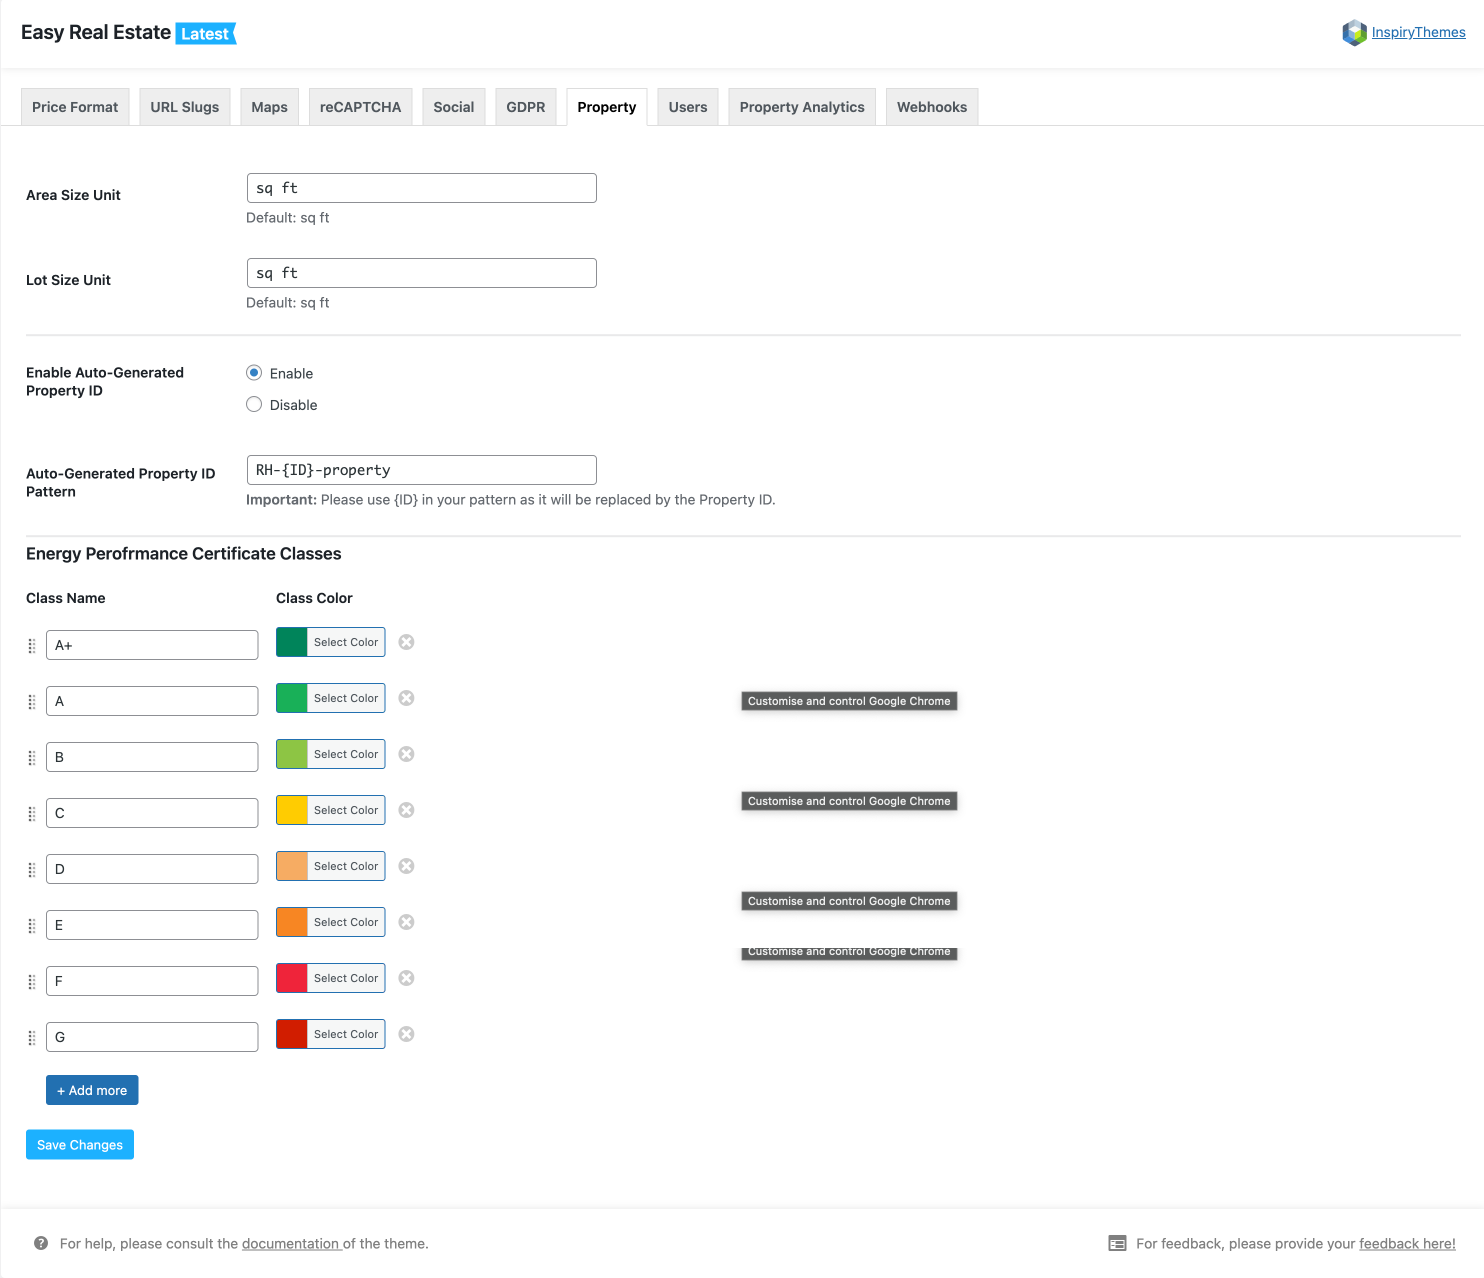
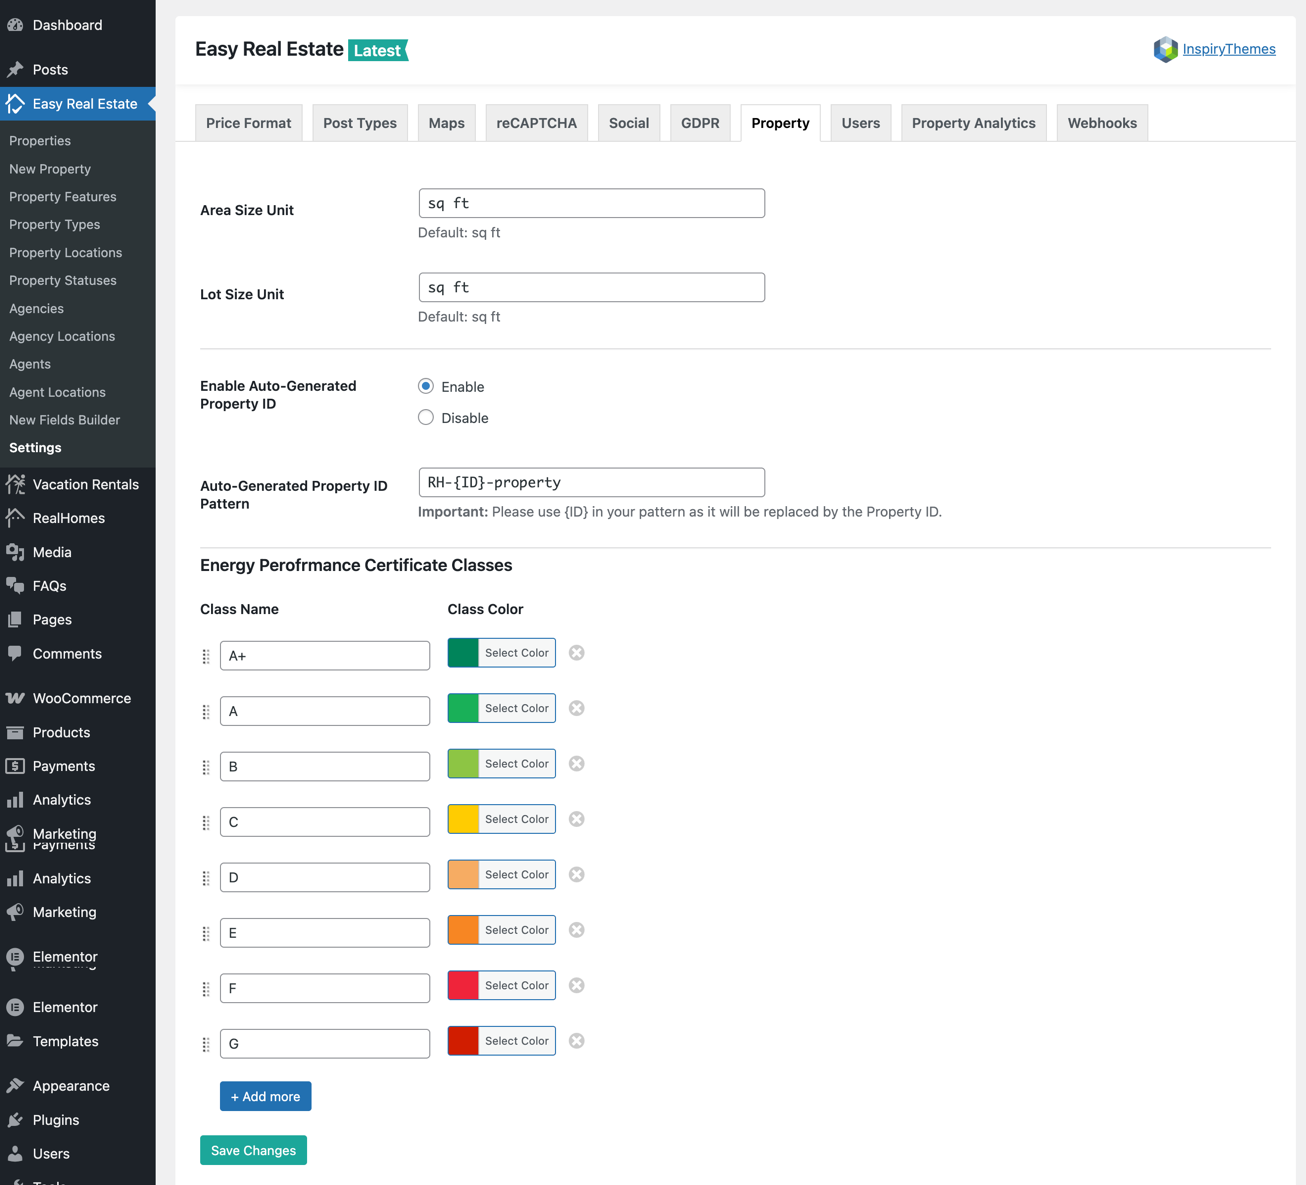
Updated property settings page

diff --git a/docs/property.md b/docs/property.md
@@ -1,4 +1,4 @@
-# Price Format Settings
+# Property Settings
 
 There are some global settings available related to property post type. You can control the following settings in **Easy Real Estate → Settings → Property**.
 
